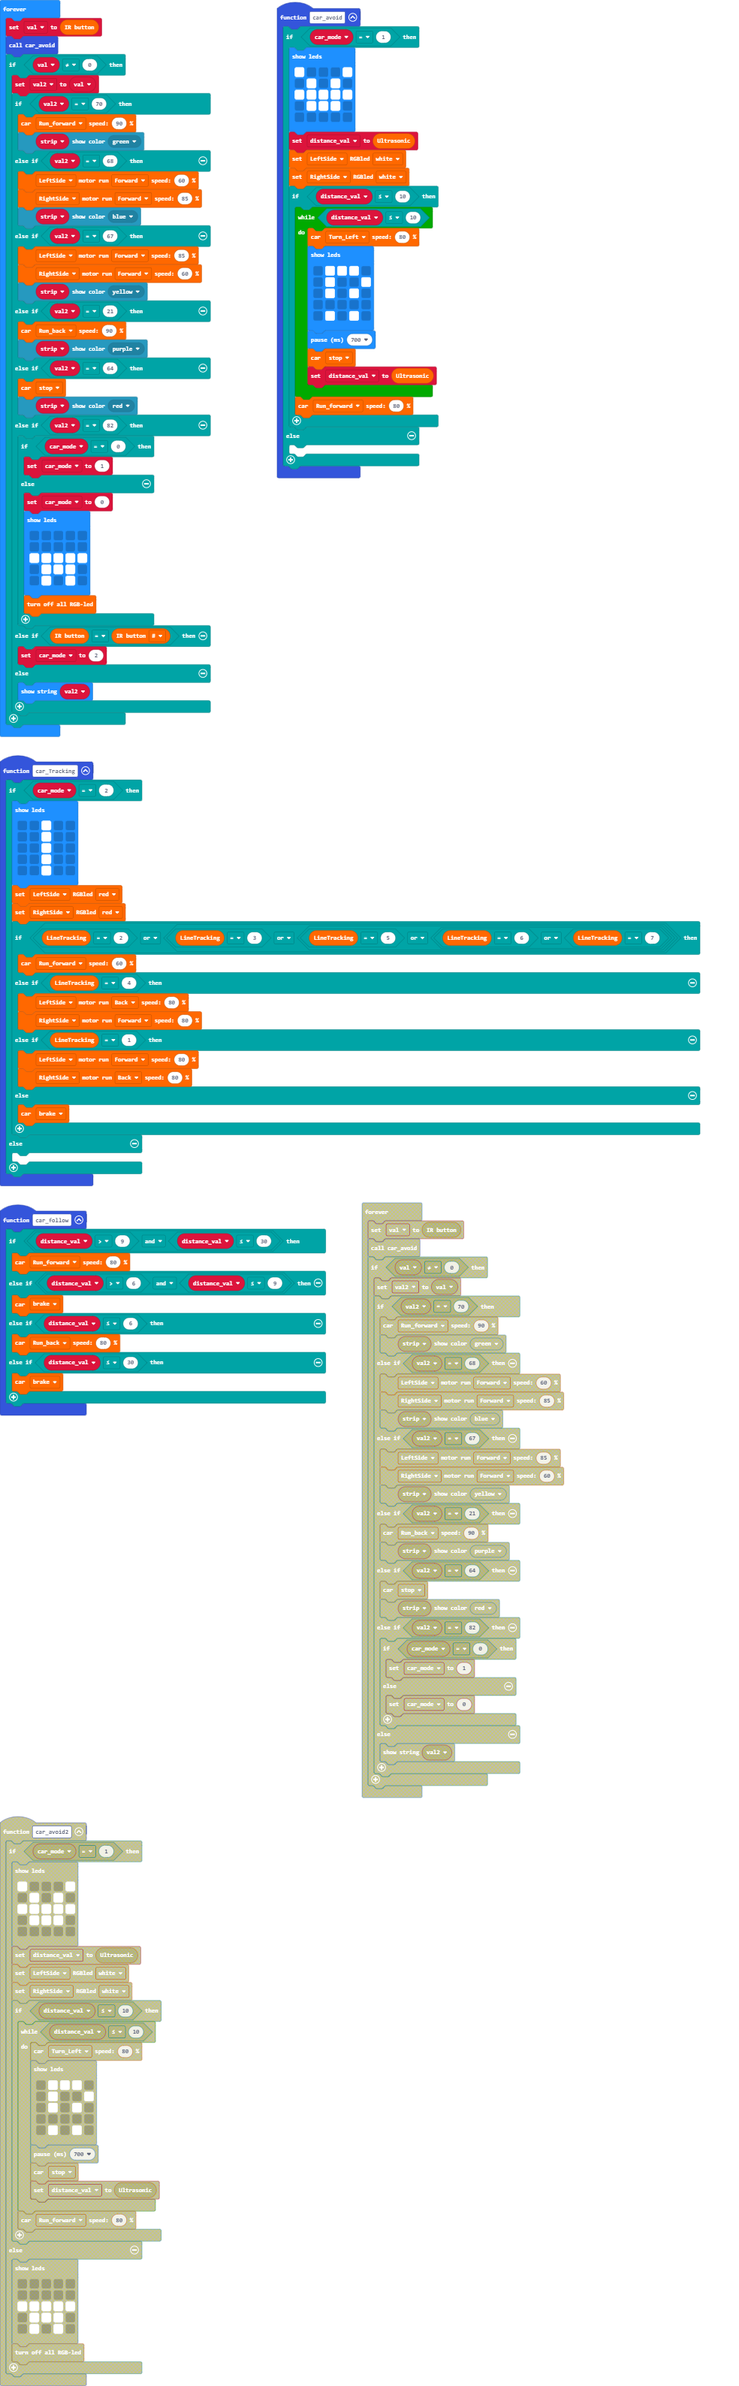
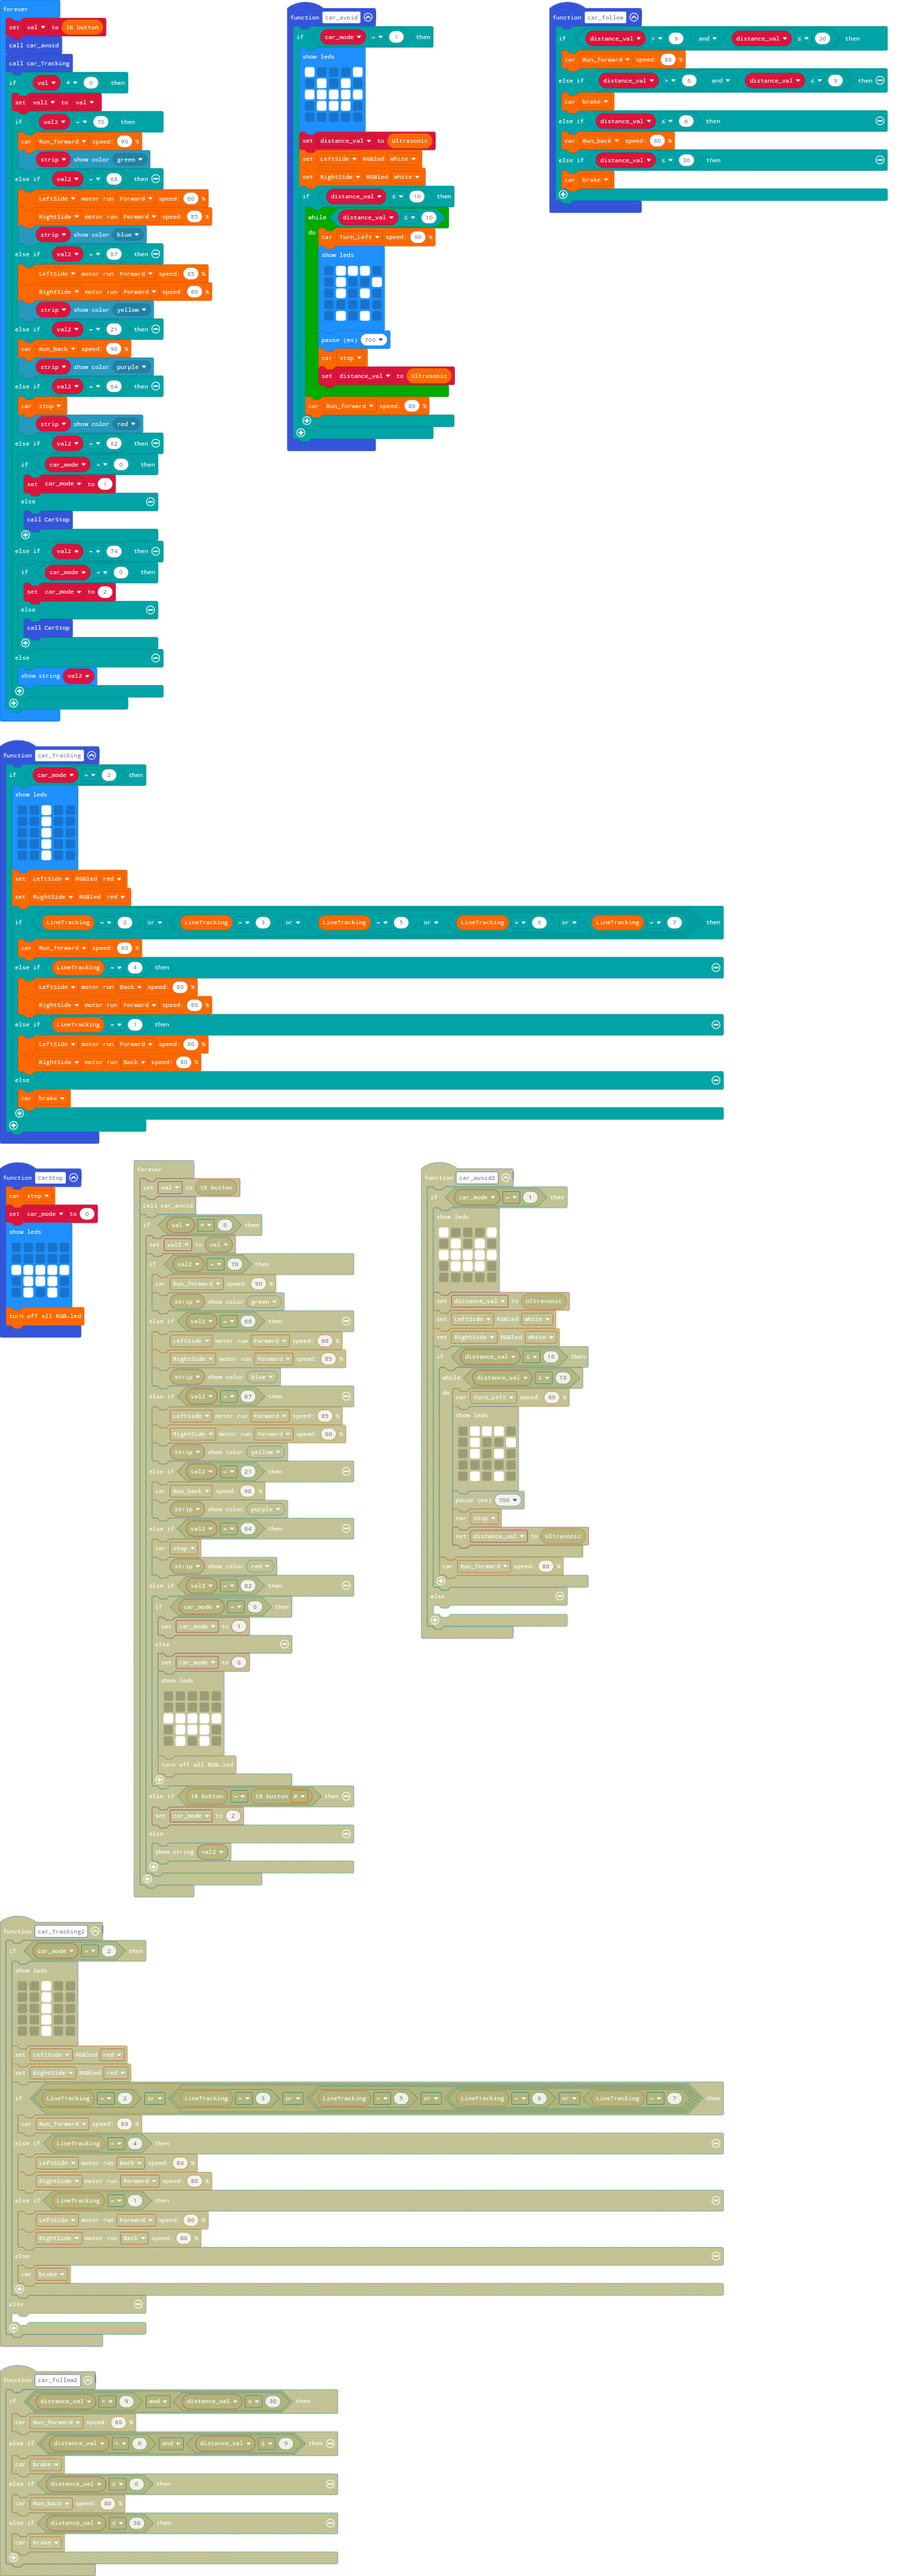
Update main.blocks, main.ts

diff --git a/main.ts b/main.ts
@@ -26,9 +26,19 @@ function car_avoid () {
             }
             turtleBit.run(DIR.Run_forward, 80)
         }
-    } else {
-    	
     }
+}
+function CarStop () {
+    turtleBit.state(MotorState.stop)
+    car_mode = 0
+    basic.showLeds(`
+        . . . . .
+        . . . . .
+        # # # # #
+        . # # # .
+        . # . # .
+        `)
+    turtleBit.OFFLed()
 }
 function car_follow () {
     if (distance_val > 9 && distance_val <= 30) {
@@ -63,8 +73,6 @@ function car_Tracking () {
         } else {
             turtleBit.state(MotorState.brake)
         }
-    } else {
-    	
     }
 }
 let val2 = 0
@@ -76,6 +84,7 @@ let strip = neopixel.create(DigitalPin.P8, 4, NeoPixelMode.RGB)
 basic.forever(function () {
     val = irRemote.returnIrButton()
     car_avoid()
+    car_Tracking()
     if (val != 0) {
         val2 = val
         if (val2 == 70) {
@@ -99,18 +108,14 @@ basic.forever(function () {
             if (car_mode == 0) {
                 car_mode = 1
             } else {
-                car_mode = 0
-                basic.showLeds(`
-                    . . . . .
-                    . . . . .
-                    # # # # #
-                    . # # # .
-                    . # . # .
-                    `)
-                turtleBit.OFFLed()
+                CarStop()
             }
-        } else if (irRemote.returnIrButton() == irRemote.irButton(IrButton.Hash)) {
-            car_mode = 2
+        } else if (val2 == 74) {
+            if (car_mode == 0) {
+                car_mode = 2
+            } else {
+                CarStop()
+            }
         } else {
             basic.showString("" + (val2))
         }
